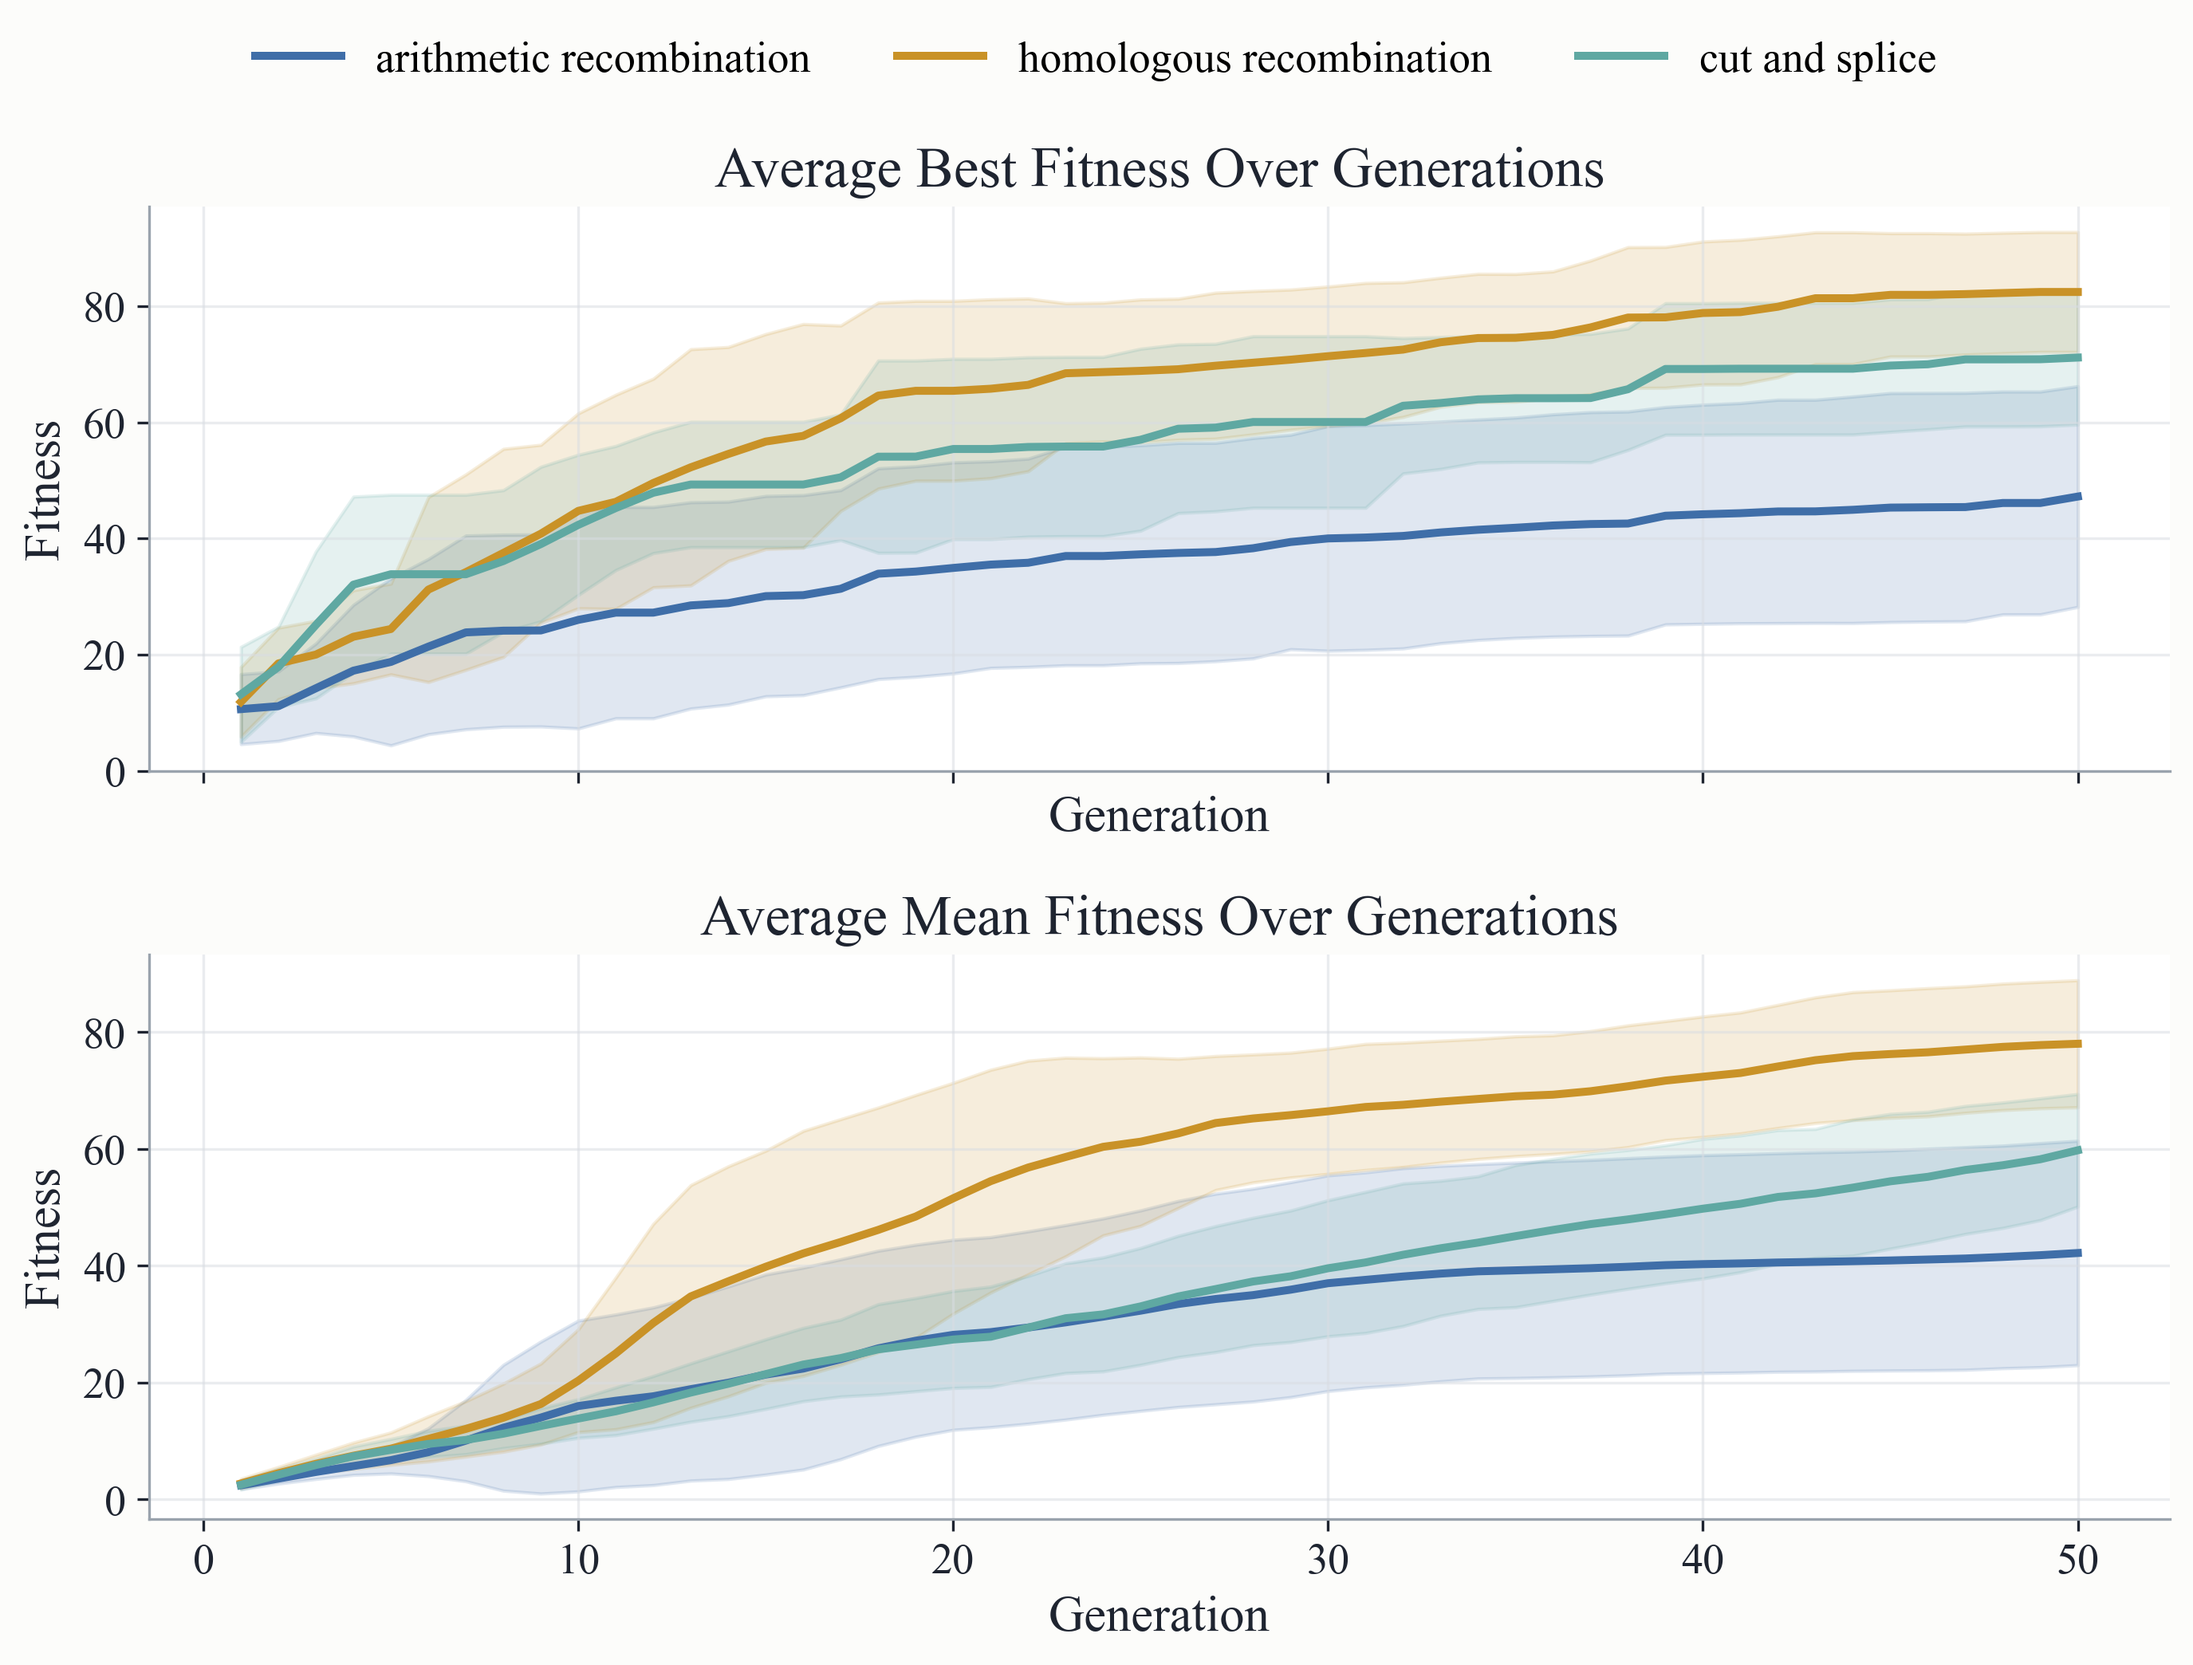
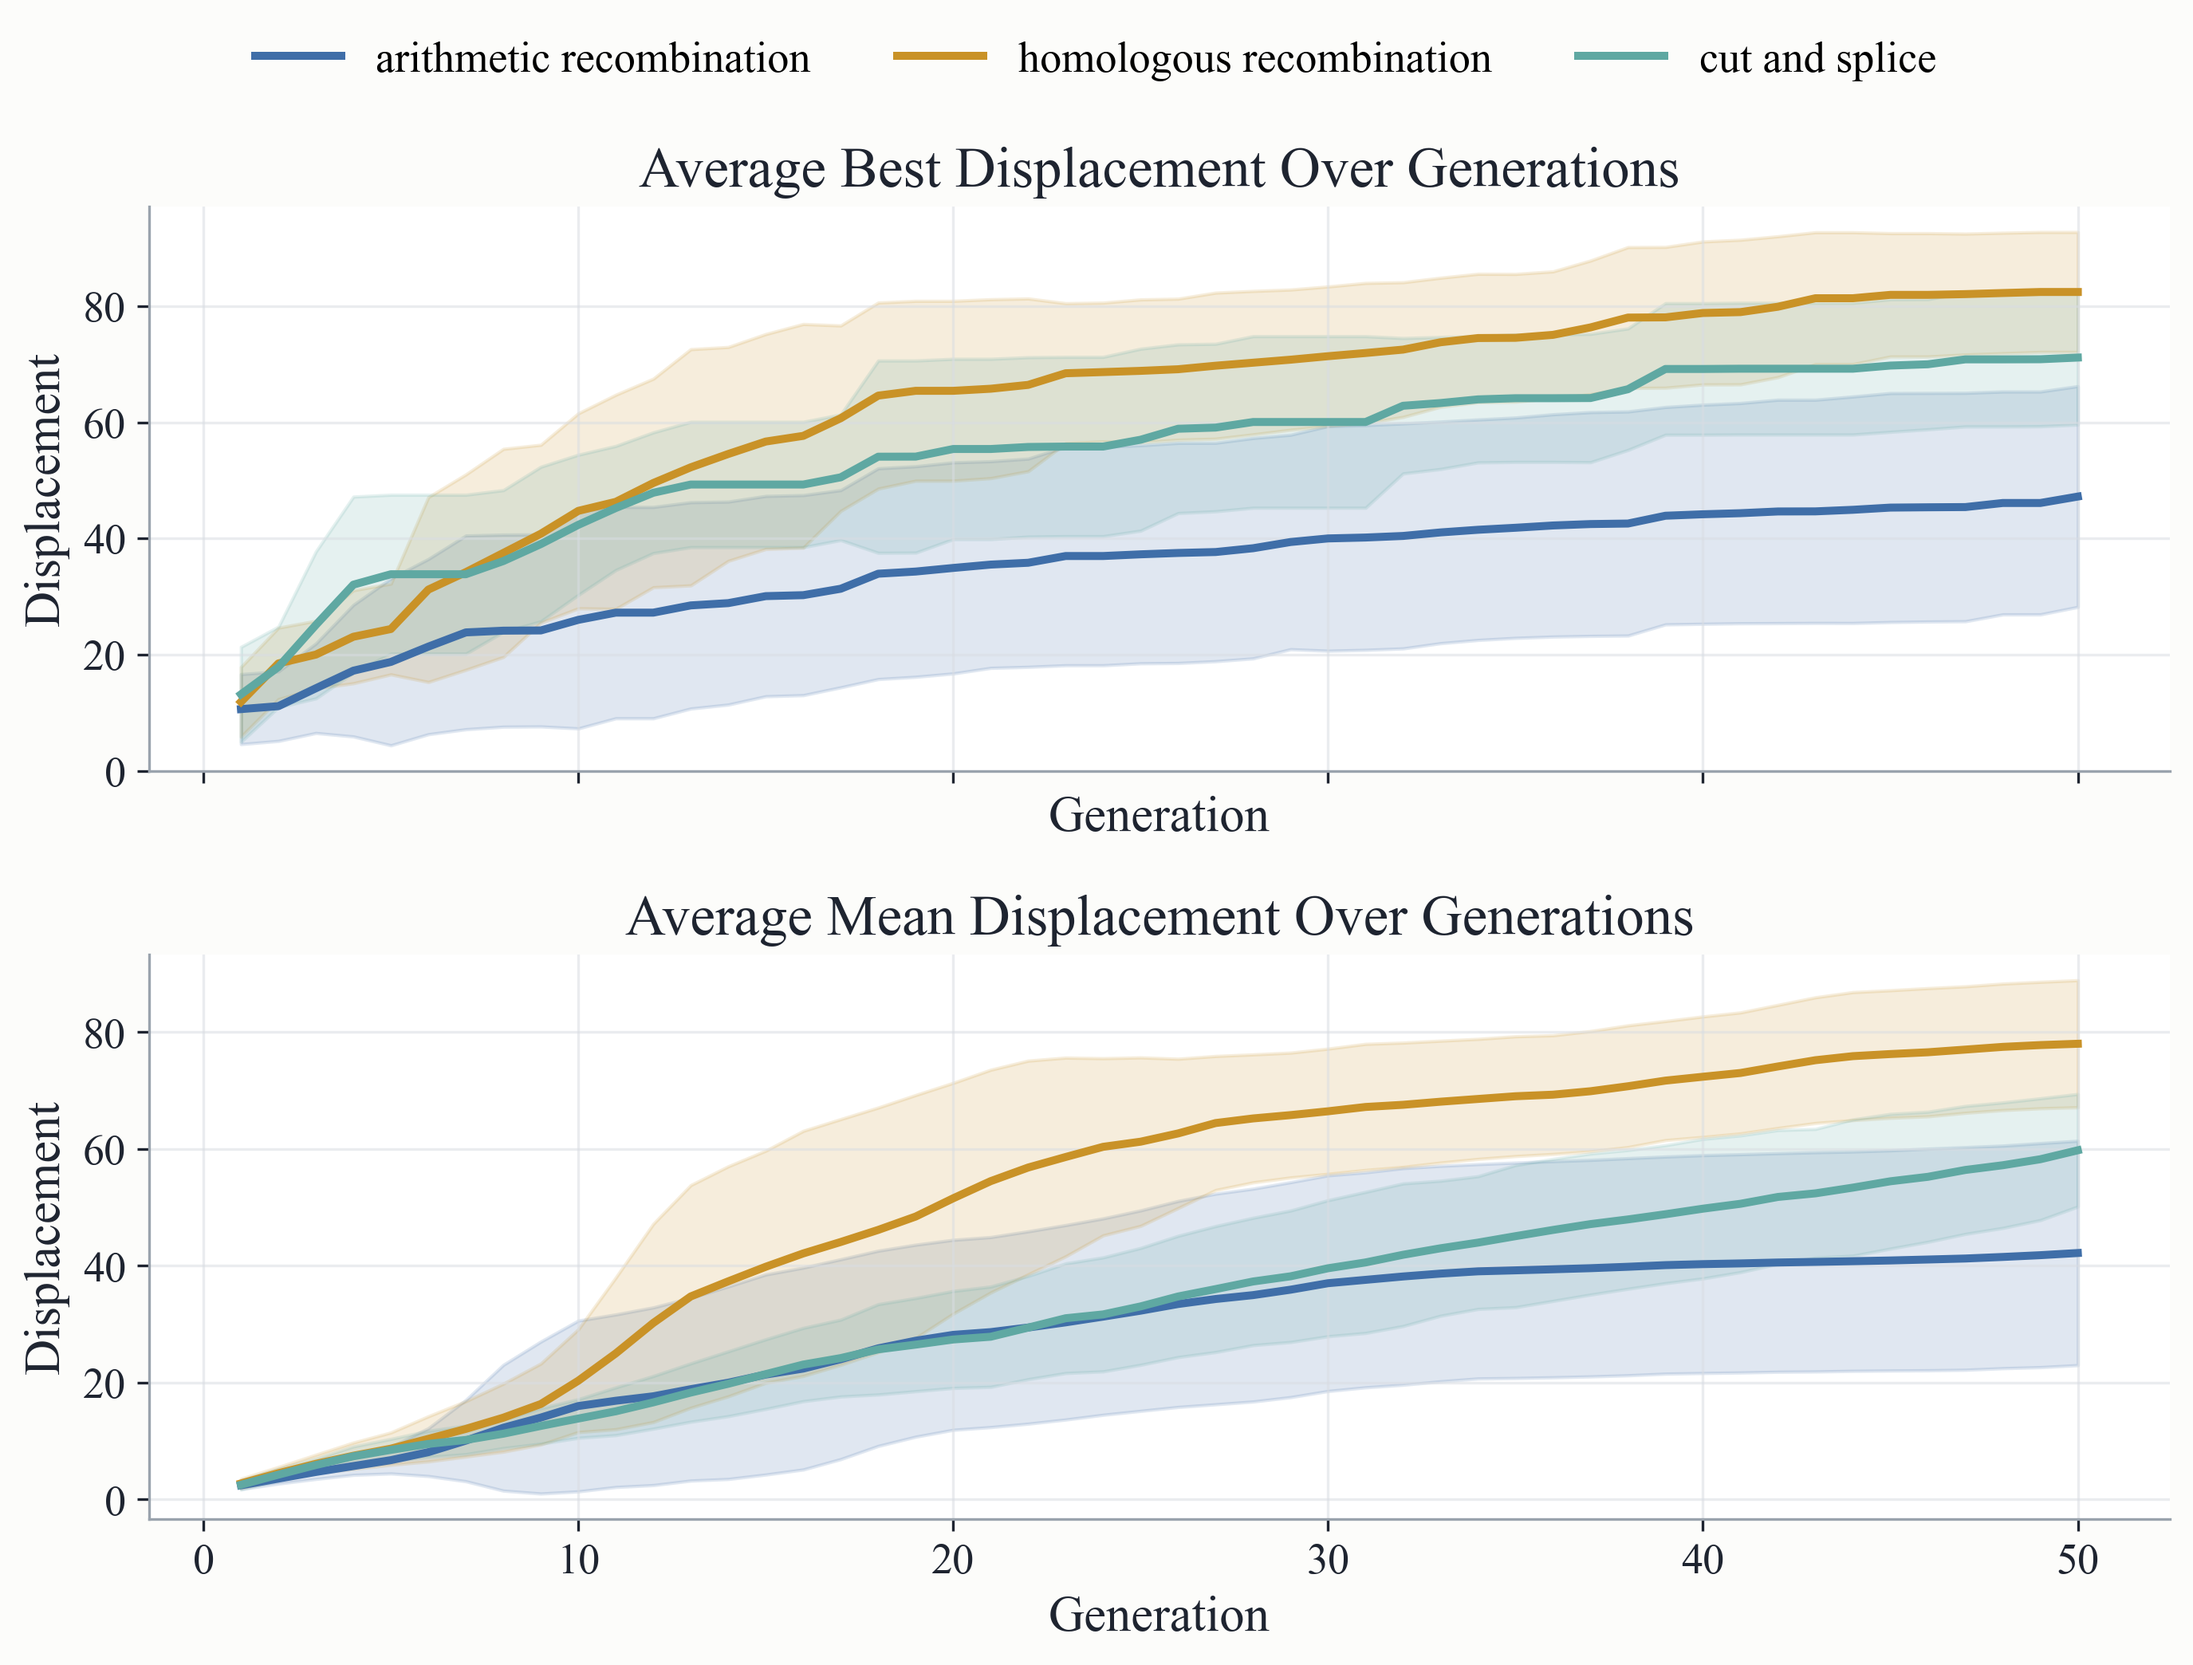
Relabel reported metric as displacement, not fitness
The value recorded on each individual and written to the result CSVs is
raw displacement. The age penalty in EA._fitness_value is applied only
when ranking for tournament selection and survivor truncation, and is
never persisted, so the objective actually optimized cannot be recovered
from the result files.

Rename the plotted and reported quantity to "Displacement" across the
analysis scripts and regenerate the affected figures and the parent-child
statistics report. Column names in the CSVs, and the figure filenames,
are left as `fitness` so existing scripts and outputs stay valid.

Two layout fixes were needed to fit the longer word:

- The 2x2 grid in the panel chart now sets its own panel-title size,
  since "Displacement" did not fit at the shared size. The individual
  split panels keep the shared size, so the titles they derive from the
  grid titles by string replacement are unaffected.
- The density grid was already overflowing its columns under the larger
  font constants introduced with the split-panel figures; its figsize is
  scaled to match, which is what the committed figure had assumed.

Also document the selection-score/recorded-value split on the relevant
EA methods, and fix the generation summary log line, which printed the
age-penalized score under the raw metric's name. No change to selection
behaviour or to the penalty itself.

diff --git a/experiments/analysis/plot_fitness_morphology_panel_chart.py b/experiments/analysis/plot_fitness_morphology_panel_chart.py
@@ -41,6 +41,8 @@ CROSSOVER_HATCHES = {
 }
 BASE_FONT_SIZE = 34
 AXIS_TITLE_FONT_SIZE = 36
+# Panel titles in the 2x2 grid only; smaller so the longer "Displacement" fits.
+GRID_PANEL_TITLE_FONT_SIZE = 26
 AXIS_LABEL_FONT_SIZE = 34
 TICK_FONT_SIZE = 31
 LEGEND_FONT_SIZE = 31
@@ -51,7 +53,7 @@ PANEL_LABEL_FONT_SIZE = 42
 def parse_args():
     parser = argparse.ArgumentParser(
         description=(
-            "Draw a four-panel chart with best fitness, mean fitness, "
+            "Draw a four-panel chart with best displacement, mean displacement, "
             "parent-child morphology over generations, and parent-child "
             "morphology by crossover operator."
         )
@@ -173,7 +175,7 @@ def plot_fitness_panel(ax, fitness_df: pd.DataFrame, metric: str, title: str):
 
     ax.set_title(title)
     ax.set_xlabel("Generation")
-    ax.set_ylabel("Fitness")
+    ax.set_ylabel("Displacement")
     ax.set_ylim(bottom=0.1)
     ax.grid(True)
     clean_axes(ax)
@@ -337,7 +339,7 @@ def run_plot_individual(
     saved_paths = []
 
     fig, ax = plt.subplots(figsize=(9.0, 7.6))
-    handles, labels = plot_fitness_panel(ax, fitness_df, "best", "Best Fitness Over Gen.")
+    handles, labels = plot_fitness_panel(ax, fitness_df, "best", "Best Displacement Over Gen.")
     ax.set_title(ax.get_title(), pad=16)
     unique = dict(zip(labels, handles))
     fig.legend(
@@ -352,7 +354,7 @@ def run_plot_individual(
     print(f"Saved panel to: {output_path}")
 
     fig, ax = plt.subplots(figsize=(9.0, 7.6))
-    handles, labels = plot_fitness_panel(ax, fitness_df, "mean", "Mean Fitness Over Gen.")
+    handles, labels = plot_fitness_panel(ax, fitness_df, "mean", "Mean Displacement Over Gen.")
     ax.set_title(ax.get_title(), pad=16)
     unique = dict(zip(labels, handles))
     fig.legend(
@@ -430,13 +432,13 @@ def run_plot(
         axes[0, 0],
         fitness_df,
         "best",
-        "Best Fitness Over Generations",
+        "Best Displacement Over Generations",
     )
     plot_fitness_panel(
         axes[1, 0],
         fitness_df,
         "mean",
-        "Mean Fitness Over Generations",
+        "Mean Displacement Over Generations",
     )
     plot_generation_distance_panel(axes[0, 1], generation_summary_df)
     plot_crossover_distance_panel(axes[1, 1], links_df)
@@ -453,12 +455,15 @@ def run_plot(
         )
 
     fig.suptitle(
-        "Fitness and Parent-Child Morphological Distance",
+        "Displacement and Parent-Child Morphological Distance",
         fontsize=FIGURE_TITLE_FONT_SIZE,
         fontweight="bold",
         color="#1E2430",
         y=0.99,
     )
+    for ax in axes.flat:
+        ax.set_title(ax.get_title(), fontsize=GRID_PANEL_TITLE_FONT_SIZE)
+
     fig.tight_layout(rect=(0.055, 0.025, 1, 0.905), h_pad=3.0, w_pad=3.2)
 
     for label, ax in (

diff --git a/algorithms/EA.py b/algorithms/EA.py
@@ -121,6 +121,15 @@ class EA(Experiment):
         return individuals
 
     def _fitness_value(self, individual):
+        """Age-penalized selection score.
+
+        This is the value used to rank individuals for tournament selection and
+        survivor truncation only. It is never stored on the individual and never
+        written to the result files: the recorded ``fitness`` attribute holds the
+        raw target behaviour (``self.fitness_metric``, i.e. displacement). The
+        penalty discounts an individual by 0.1% of its absolute displacement per
+        generation of age beyond 10, capped at age 100 (a maximum 10% discount).
+        """
         value = getattr(individual, "fitness", None)
         if value is None:
             return float("-inf")
@@ -137,6 +146,7 @@ class EA(Experiment):
         return value
 
     def _sort_by_fitness(self, population):
+        """Rank by age-penalized selection score, not by raw displacement."""
         return sorted(population, key=self._fitness_value, reverse=True)
 
     def _set_relative_metrics(self, population, generation):
@@ -150,6 +160,7 @@ class EA(Experiment):
             ind.fitness = self._fitness_value_from_metric(ind)
 
     def _fitness_value_from_metric(self, individual):
+        """Raw target behaviour (displacement); this is what gets recorded."""
         return self._metric_value(individual, self.fitness_metric)
 
     def _metric_value(self, individual, metric):
@@ -264,8 +275,9 @@ class EA(Experiment):
         valid = int(sum(1 for ind in population if getattr(ind, "valid", 0)))
         print(
             f"Finished generation {generation}. "
-            f"Best {self.fitness_metric}: {self._fitness_value(best):.4f}. "
-            f"Mean finite fitness: {mean:.4f}. "
+            f"Best selection score (age-penalized): {self._fitness_value(best):.4f}. "
+            f"Best raw {self.fitness_metric}: {self._fitness_value_from_metric(best):.4f}. "
+            f"Mean finite selection score: {mean:.4f}. "
             f"Valid: {valid}/{len(population)}."
         )
 

diff --git a/experiments/analysis/plot_fitness_progress.py b/experiments/analysis/plot_fitness_progress.py
@@ -167,7 +167,7 @@ def plot_metric_panel(
 
     ax.set_title(title)
     ax.set_xlabel("Generation")
-    ax.set_ylabel("Fitness")
+    ax.set_ylabel("Displacement")
     ax.grid(True)
     clean_axes(ax)
     return legend_handles, legend_labels
@@ -193,7 +193,7 @@ def run_plot(*, analysis_dir: Path, experiments_raw: str = "", output_name: str 
         axes[0],
         df,
         experiments,
-        title="Average Best Fitness Over Generations",
+        title="Average Best Displacement Over Generations",
         center_candidates=["fitness_max_mean", "fitness_max_median"],
         spread_candidates=["fitness_max_std"],
     )
@@ -201,7 +201,7 @@ def run_plot(*, analysis_dir: Path, experiments_raw: str = "", output_name: str 
         axes[1],
         df,
         experiments,
-        title="Average Mean Fitness Over Generations",
+        title="Average Mean Displacement Over Generations",
         center_candidates=["fitness_mean_mean", "fitness_mean_median"],
         spread_candidates=["fitness_mean_std", "fitness_std_median"],
     )

diff --git a/experiments/analysis/plot_parent_child_fitness_density.py b/experiments/analysis/plot_parent_child_fitness_density.py
@@ -745,7 +745,9 @@ def plot_all_crossover_density_grid(links_df, output_path, fitness_metric="displ
     fig, axes = plt.subplots(
         nrows=3,
         ncols=len(CROSSOVER_TYPES),
-        figsize=(27.0, 18.0),
+        # Scaled with the larger font constants above; at 27x18 the panel
+        # titles and colorbar labels overrun their columns.
+        figsize=(33.5, 22.3),
         sharex=True,
     )
 
@@ -808,7 +810,7 @@ def plot_all_crossover_density_grid(links_df, output_path, fitness_metric="displ
             axes[row, col].set_ylabel("")
 
     fig.suptitle(
-        "Parent-Child Fitness-Distance Density by Crossover Type",
+        "Parent-Child Displacement-Distance Density by Crossover Type",
         fontsize=FIGURE_TITLE_FONT_SIZE,
         y=0.95,
     )

diff --git a/experiments/analysis/family_tree.py b/experiments/analysis/family_tree.py
@@ -289,7 +289,7 @@ def compose_vertical_tree(out_dir, nodes, margin=32, v_gap=28, arrow_len=20, rem
     max_w = max(im.width for im in imgs)
     captions = []
     for _, rid, fit, dist in nodes:
-        base = f"ID: {rid} | Fitness: {fit if fit is not None else 'NA'}"
+        base = f"ID: {rid} | Displacement: {fit if fit is not None else 'NA'}"
         if dist is not None:
             d1 = "NA" if dist["d_p1"] is None or dist["d_p1"] == float('inf') else f"{dist['d_p1']:.3f}"
             d2 = "NA" if dist["d_p2"] is None or dist["d_p2"] == float('inf') else f"{dist['d_p2']:.3f}"

diff --git a/experiments/analysis/plot_best_robot_family_lineup.py b/experiments/analysis/plot_best_robot_family_lineup.py
@@ -244,7 +244,7 @@ def run_best_robot_family_lineup(
         role = "Best Robot" if idx == len(lineage) - 1 else "Ancestor"
         fit_text = f"{item['fitness']:.3f}" if item["fitness"] == item["fitness"] else "NA"
         ax.set_title(
-            f"Gen {item['generation']}\nID {item['robot_id']}\nFitness {fit_text}\n{role}",
+            f"Gen {item['generation']}\nID {item['robot_id']}\nDisplacement {fit_text}\n{role}",
             fontsize=10,
             pad=10,
         )

diff --git a/experiments/analysis/statistical_tests_parent_child_morphology.py b/experiments/analysis/statistical_tests_parent_child_morphology.py
@@ -719,8 +719,8 @@ def write_results_file(
             ],
         ),
         "",
-        "Fitness Correlations",
-        "--------------------",
+        "Displacement Correlations",
+        "-------------------------",
         format_results_table(
             correlations_df,
             [
